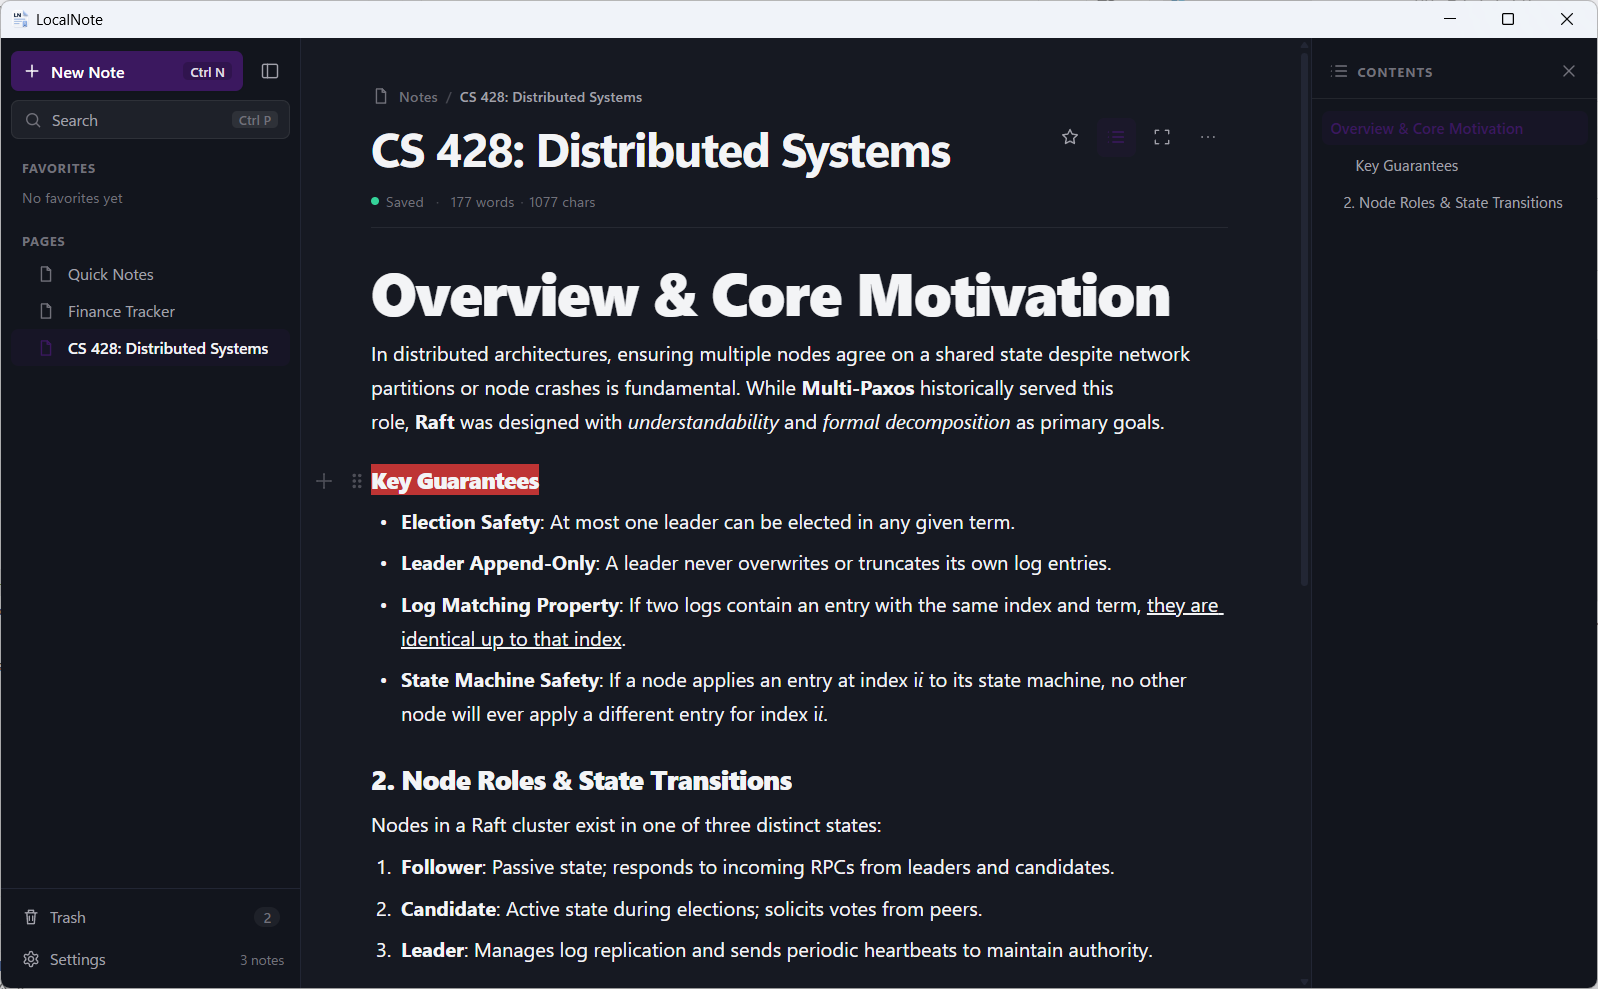
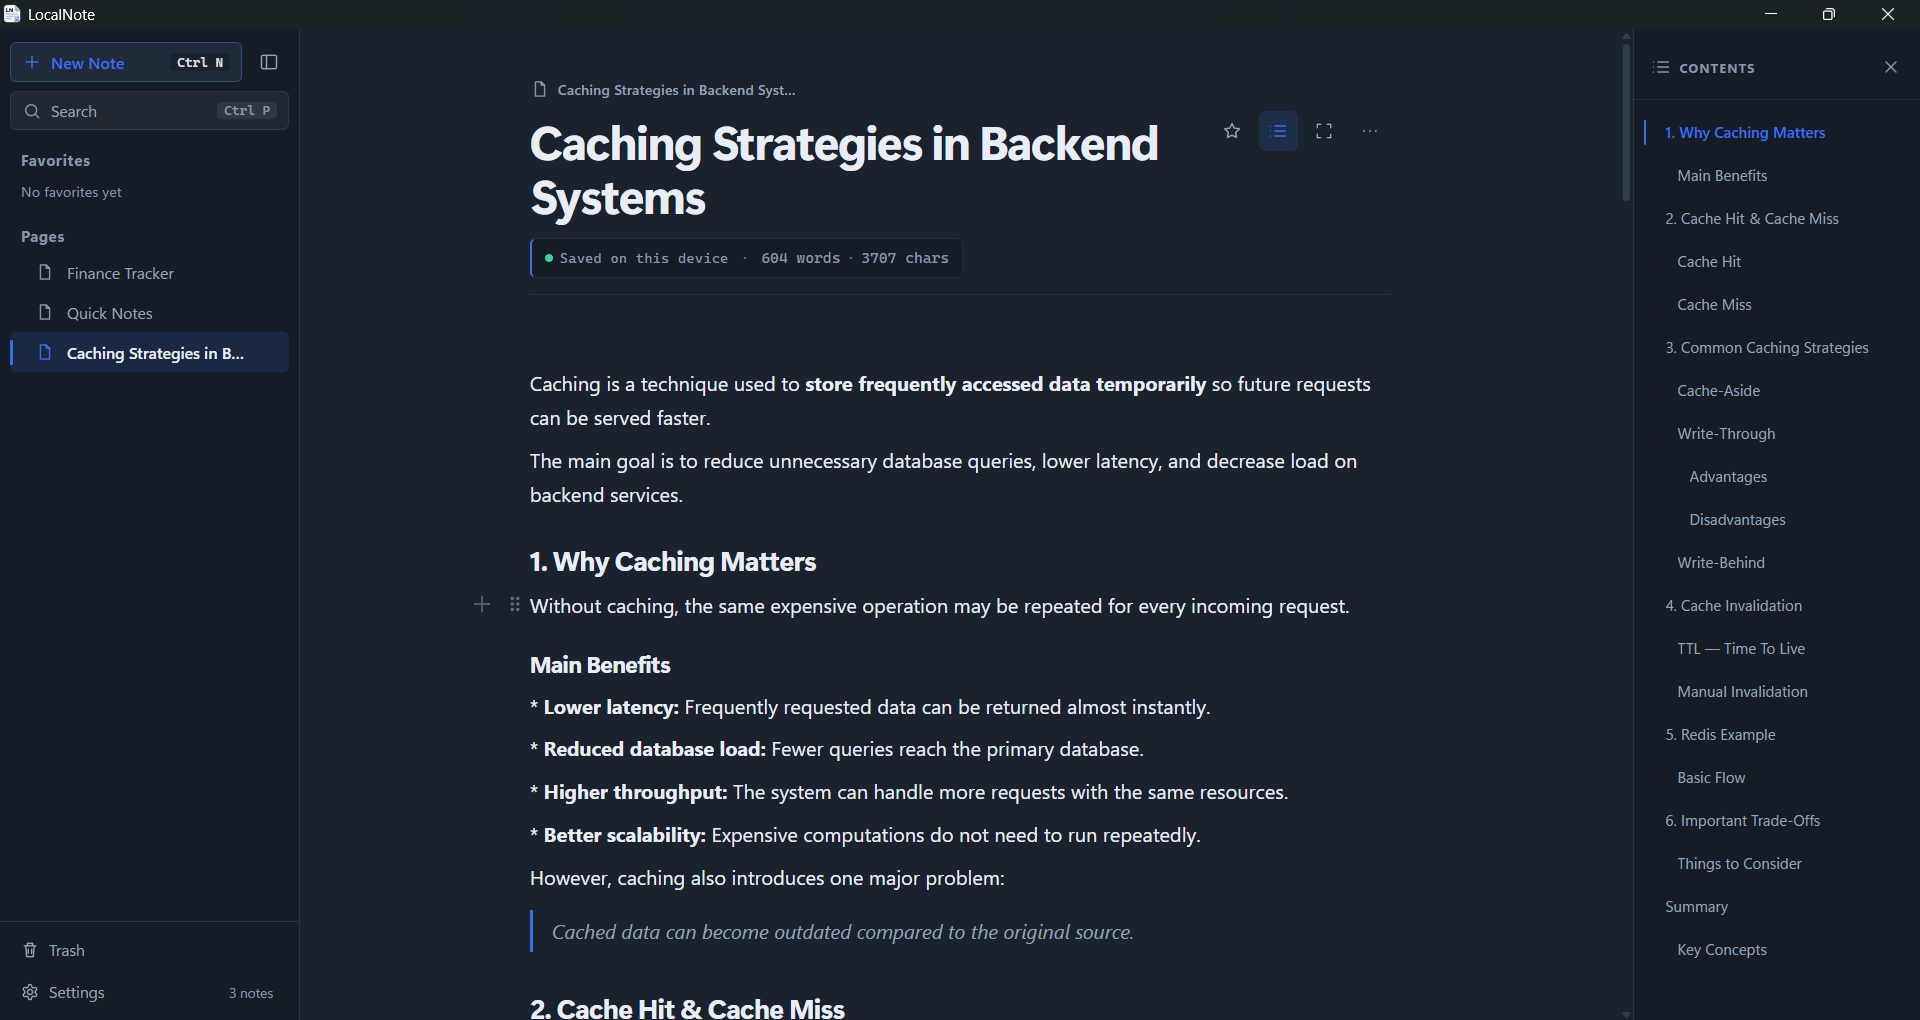
docs: update README with latest screenshots

diff --git a/README.md b/README.md
@@ -52,7 +52,7 @@ It brings the familiar, flexible block-based editing experience of modern produc
 <table align="center">
   <tr>
     <td align="center" width="50%">
-      <strong>🌙 Dark Theme (Default)</strong><br />
+      <strong>🌙 Dark Theme</strong><br />
       <img src="docs/screenshots/localnote-dark.png" alt="LocalNote Dark Theme" />
     </td>
     <td align="center" width="50%">
@@ -68,10 +68,29 @@ It brings the familiar, flexible block-based editing experience of modern produc
 
 <br />
 
+<table align="center">
+  <tr>
+    <td align="center" width="50%">
+      <strong>⚙ Appearance & Editor Settings</strong><br />
+      <img src="docs/screenshots/localnote-settings.png" alt="LocalNote Appearance and Editor Settings" />
+    </td>
+    <td align="center" width="50%">
+      <strong>💾 Storage & Backups</strong><br />
+      <img src="docs/screenshots/localnote-storage-backup.png" alt="LocalNote Storage, Backup, Import, and About Settings" />
+    </td>
+  </tr>
+</table>
+
 <p align="center">
-  <strong>⚙ Appearance & Settings</strong><br />
-  <img src="docs/screenshots/localnote-settings.png" alt="LocalNote Settings & Preferences" width="520" /><br />
-  <em>Theme toggle, 6 curated accent color presets or custom HEX values, spellcheck setting, and 1-click Markdown backup.</em>
+  <em>Choose a theme and accent, manage spellcheck, inspect local storage, and back up or import Markdown notes.</em>
+</p>
+
+<br />
+
+<p align="center">
+  <strong>🗑 Trash</strong><br />
+  <img src="docs/screenshots/localnote-trash.png" alt="LocalNote Trash Dialog" width="780" /><br />
+  <em>Review deleted notes in a focused dialog before restoring or permanently removing them.</em>
 </p>
 
 ---
